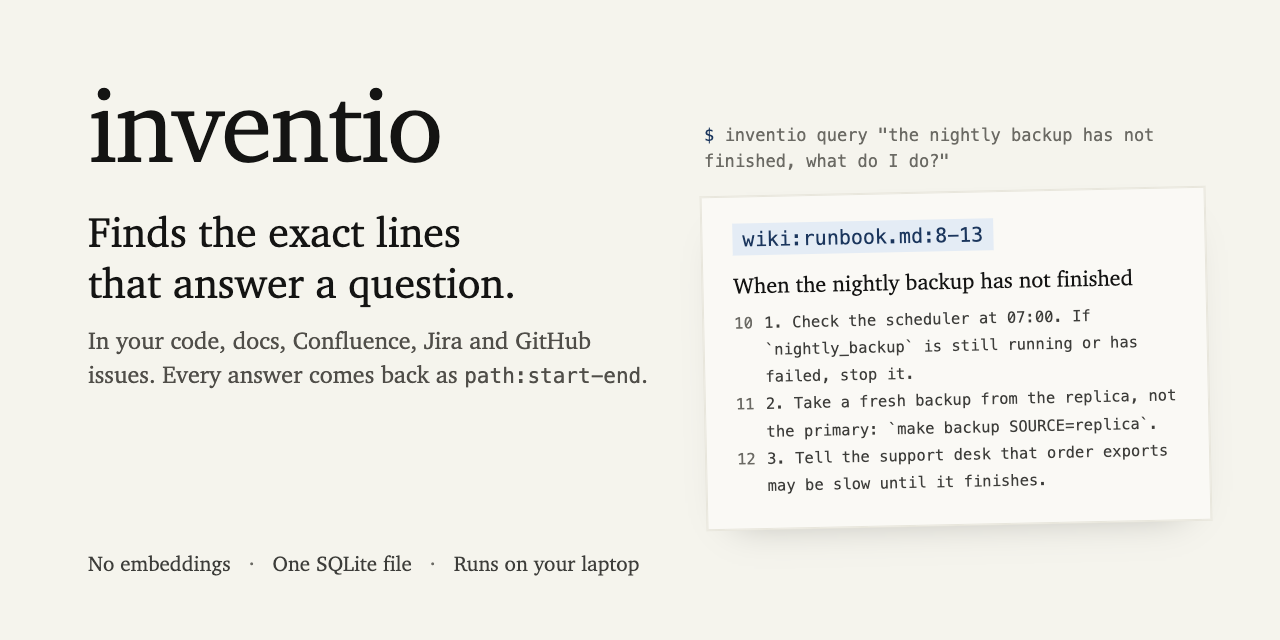
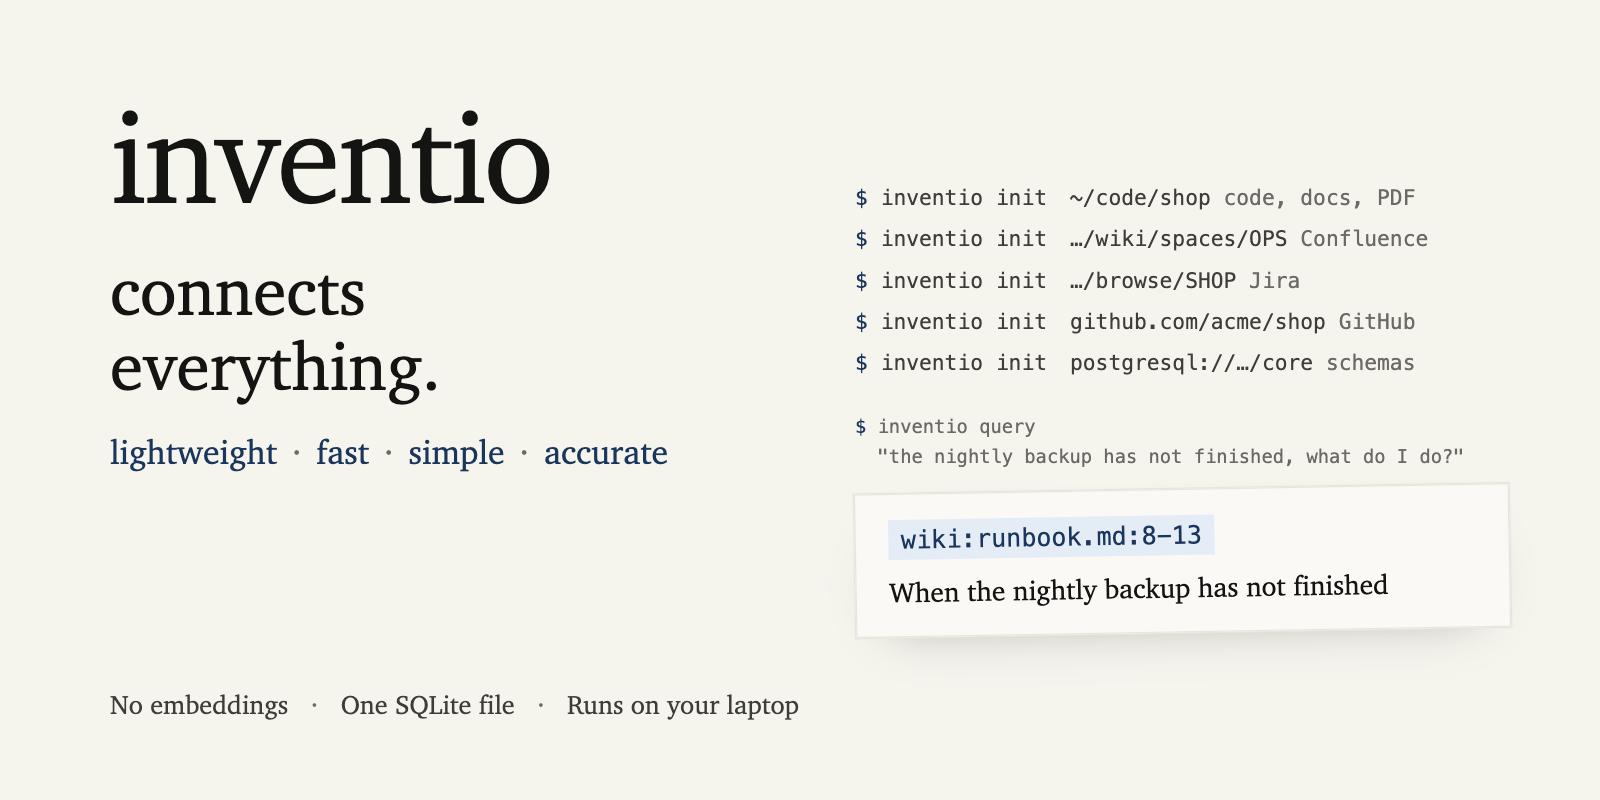
social preview: 'inventio connects everything', one init per source and a real result

diff --git a/docs/assets/social.html b/docs/assets/social.html
@@ -21,42 +21,46 @@
 * { box-sizing: border-box; margin: 0; }
 html, body { width: 1280px; height: 640px; background: var(--paper); color: var(--ink); }
 body { font-family: var(--font-display); font-weight: 500; overflow: hidden; }
-.page { display: grid; grid-template-columns: 560px 1fr; height: 100%; padding: 72px 72px 64px 88px; gap: 56px; }
+.page { display: grid; grid-template-columns: 540px 1fr; height: 100%; padding: 72px 72px 64px 88px; gap: 56px; }
 .left { display: flex; flex-direction: column; }
 h1 { font-family: var(--font-display); font-weight: 500; font-size: 104px; line-height: 1; letter-spacing: -0.02em; }
-.claim { margin-top: 30px; font-size: 42px; line-height: 1.22; color: var(--ink); }
-.where { margin-top: 16px; font-size: 24px; line-height: 1.4; color: var(--olive); }
-.facts { margin-top: auto; display: flex; gap: 18px; white-space: nowrap; font-size: 21px; color: var(--ink-2); font-variant-numeric: tabular-nums; }
+.claim { margin-top: 26px; font-size: 54px; line-height: 1.12; color: var(--ink); }
+.words { margin-top: 22px; font-size: 27px; color: var(--accent); }
+.words span + span::before { content: "·"; margin: 0 12px; color: var(--stone); }
+.facts { margin-top: auto; display: flex; gap: 18px; white-space: nowrap; font-size: 21px; color: var(--ink-2); }
 .facts span + span::before { content: "·"; margin-right: 18px; color: var(--stone); }
 .right { display: flex; flex-direction: column; justify-content: center; }
-.ask { font-family: var(--font-mono); font-size: 17px; color: var(--stone); margin-bottom: 18px; line-height: 1.5; }
+.inits { list-style: none; padding: 0; font-family: var(--font-mono); font-size: 17px; line-height: 1.95; color: var(--ink-2); }
+.inits li { display: grid; grid-template-columns: 172px 1fr; white-space: nowrap; }
+.inits b { color: var(--accent); font-weight: 400; }
+.inits em { font-style: normal; color: var(--stone); }
+.ask { margin-top: 22px; font-family: var(--font-mono); font-size: 15px; line-height: 1.6; color: var(--stone); white-space: nowrap; }
 .ask b { color: var(--accent); font-weight: 400; }
-.slip { background: var(--ivory); border: 1px solid var(--border); padding: 26px 30px 28px; transform: rotate(-1.2deg); box-shadow: 0 0 0 1px var(--border), 0 18px 40px -28px rgba(20,20,19,.35); }
+.slip { margin-top: 14px; background: var(--ivory); border: 1px solid var(--border); padding: 20px 26px 22px; transform: rotate(-1deg); box-shadow: 0 0 0 1px var(--border), 0 18px 40px -28px rgba(20,20,19,.35); }
 .coord { display: inline-block; font-family: var(--font-mono); font-size: 20px; color: var(--accent); background: var(--tag); padding: 4px 10px; }
-.heading { margin-top: 16px; font-size: 22px; color: var(--ink); }
-ol { margin-top: 12px; padding: 0; list-style: none; font-family: var(--font-mono); font-size: 15.5px; line-height: 1.75; color: var(--ink-2); }
-ol li { display: grid; grid-template-columns: 30px 1fr; }
-ol li i { font-style: normal; color: var(--stone); }
+.heading { margin-top: 12px; font-size: 22px; color: var(--ink); }
 </style>
 </head>
 <body>
 <main class="page" data-od-id="page">
   <section class="left" data-od-id="left">
     <h1>inventio</h1>
-    <p class="claim">Finds the exact lines<br>that answer a question.</p>
-    <p class="where">In your code, docs, Confluence, Jira and GitHub issues. Every answer comes back as <code style="font-family:var(--font-mono);font-size:21px">path:start-end</code>.</p>
+    <p class="claim">connects<br>everything.</p>
+    <p class="words"><span>lightweight</span><span>fast</span><span>simple</span><span>accurate</span></p>
     <p class="facts"><span>No embeddings</span><span>One SQLite file</span><span>Runs on your laptop</span></p>
   </section>
   <section class="right" data-od-id="right">
-    <p class="ask"><b>$</b> inventio query "the nightly backup has not finished, what do I do?"</p>
+    <ul class="inits">
+      <li><span><b>$</b> inventio init</span><span>~/code/shop <em>code, docs, PDF</em></span></li>
+      <li><span><b>$</b> inventio init</span><span>…/wiki/spaces/OPS <em>Confluence</em></span></li>
+      <li><span><b>$</b> inventio init</span><span>…/browse/SHOP <em>Jira</em></span></li>
+      <li><span><b>$</b> inventio init</span><span>github.com/acme/shop <em>GitHub</em></span></li>
+      <li><span><b>$</b> inventio init</span><span>postgresql://…/core <em>schemas</em></span></li>
+    </ul>
+    <p class="ask"><b>$</b> inventio query<br>&nbsp;&nbsp;"the nightly backup has not finished, what do I do?"</p>
     <div class="slip">
       <span class="coord">wiki:runbook.md:8-13</span>
       <p class="heading">When the nightly backup has not finished</p>
-      <ol>
-        <li><i>10</i><span>1. Check the scheduler at 07:00. If `nightly_backup` is still running or has failed, stop it.</span></li>
-        <li><i>11</i><span>2. Take a fresh backup from the replica, not the primary: `make backup SOURCE=replica`.</span></li>
-        <li><i>12</i><span>3. Tell the support desk that order exports may be slow until it finishes.</span></li>
-      </ol>
     </div>
   </section>
 </main>
